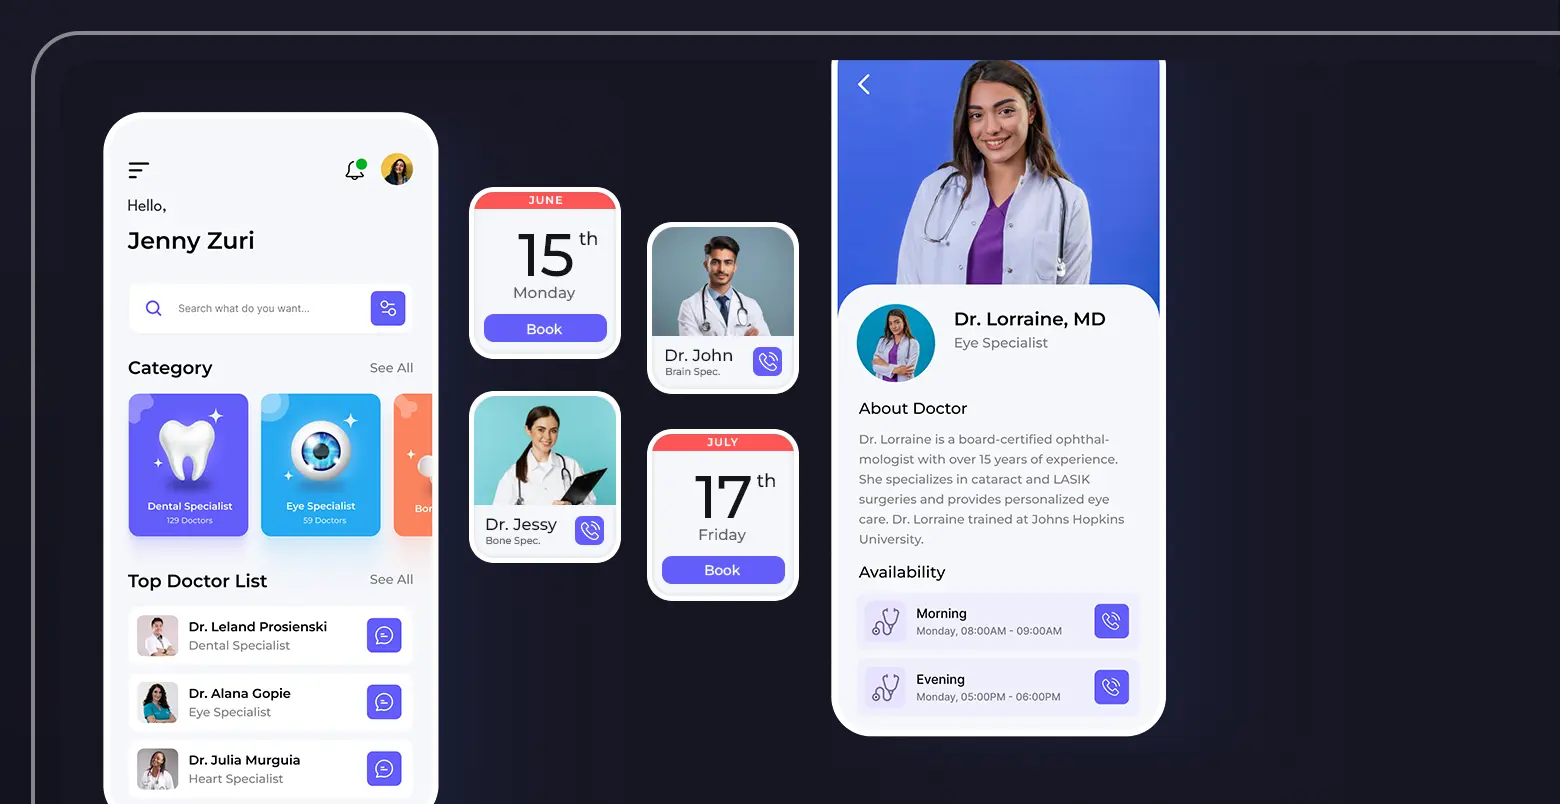
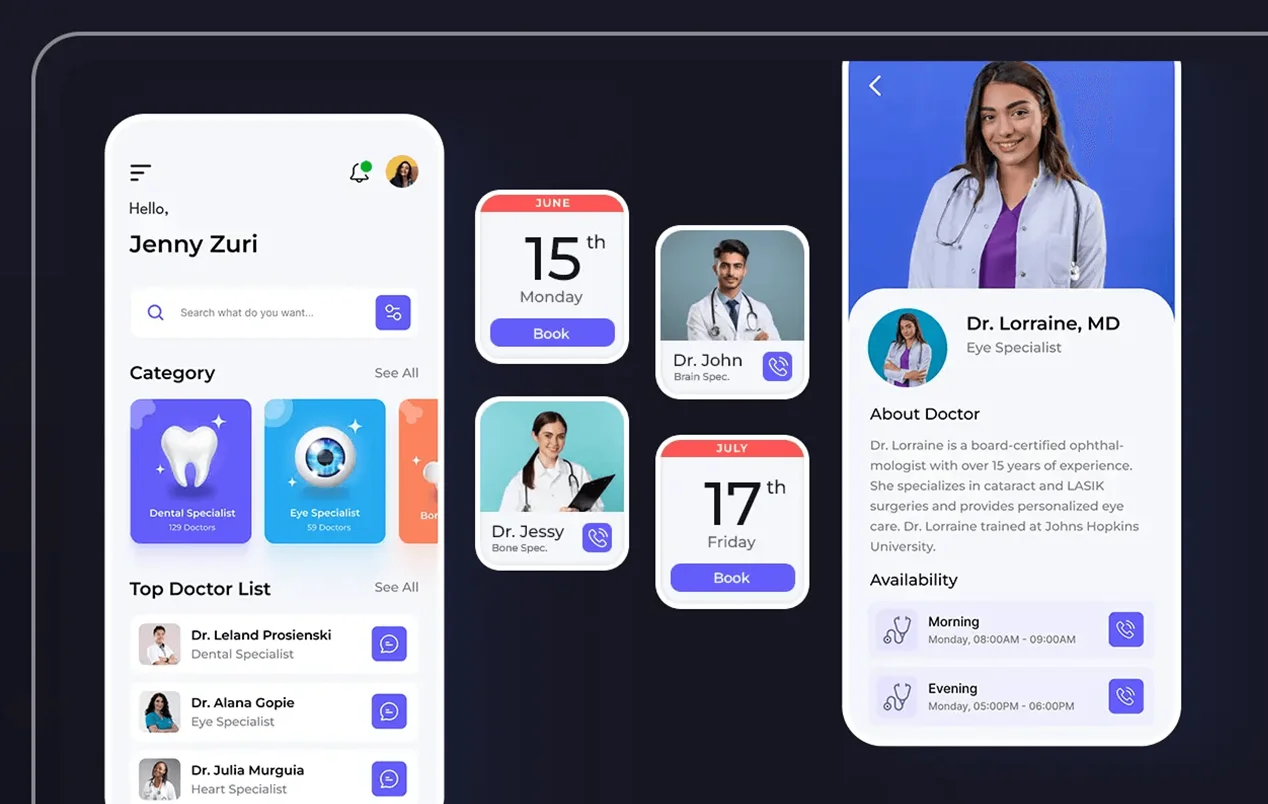
Portfolio update

diff --git a/index.html b/index.html
@@ -401,7 +401,7 @@
                 </div>
               </div>
               <div class="image-div">
-                <img src="src/webp/caremate.webp" alt="netflix clone website preview image" />
+                <img src="src/webp/caremate_thumb.webp" alt="netflix clone website preview image" />
               </div>
             </div>
           </div>
@@ -431,7 +431,7 @@
                 </div>
               </div>
               <div class="image-div">
-                <img src="src/webp/Mentor.webp" alt="Axocean website preview image" />
+                <img src="src/webp/mentor_thumb.webp" alt="Axocean website preview image" />
               </div>
             </div>
           </div>
@@ -461,7 +461,7 @@
                 </div>
               </div>
               <div class="image-div">
-                <img src="src/webp/sales_dashbaord.webp" alt="Pexelicon website preview image" />
+                <img src="src/webp/bdesk_thumb.webp" alt="Pexelicon website preview image" />
               </div>
             </div>
           </div>
@@ -487,7 +487,7 @@
                 </div>
               </div>
               <div class="image-div">
-                <img src="src/webp/saas-landing-page.webp" alt="comickaze website preview image" />
+                <img src="src/webp/saas_thumb.webp" alt="comickaze website preview image" />
               </div>
             </div>
           </div>
@@ -547,7 +547,7 @@
                 </div>
               </div>
               <div class="image-div">
-                <img src="src/webp/e_learning.webp" alt="qr generator website preview image" />
+                <img src="src/webp/e-leaning_thumb.webp" alt="qr generator website preview image" />
               </div>
             </div>
           </div>

diff --git a/style.css b/style.css
@@ -1698,11 +1698,15 @@ footer {
     height: 60%;
   }
   .image-div {
-    height: 40%;
-    padding-left: 50px;
+    display: contents;
+    padding: 0px;
   }
+
   .image-div img {
+    height: auto;
+    width: 100%;
     border-top-left-radius: 10px;
+    border-top-right-radius: 10px;
   }
   .tech-stack-wrapper {
     display: grid;
